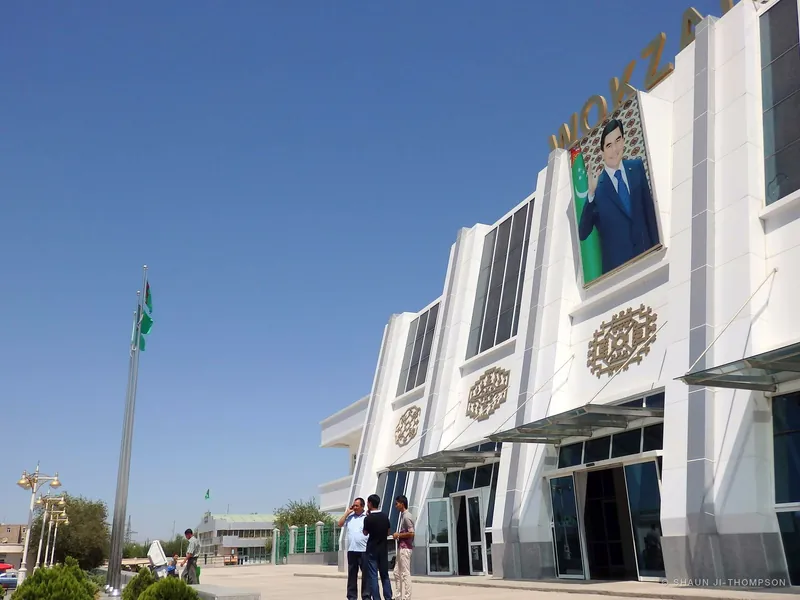
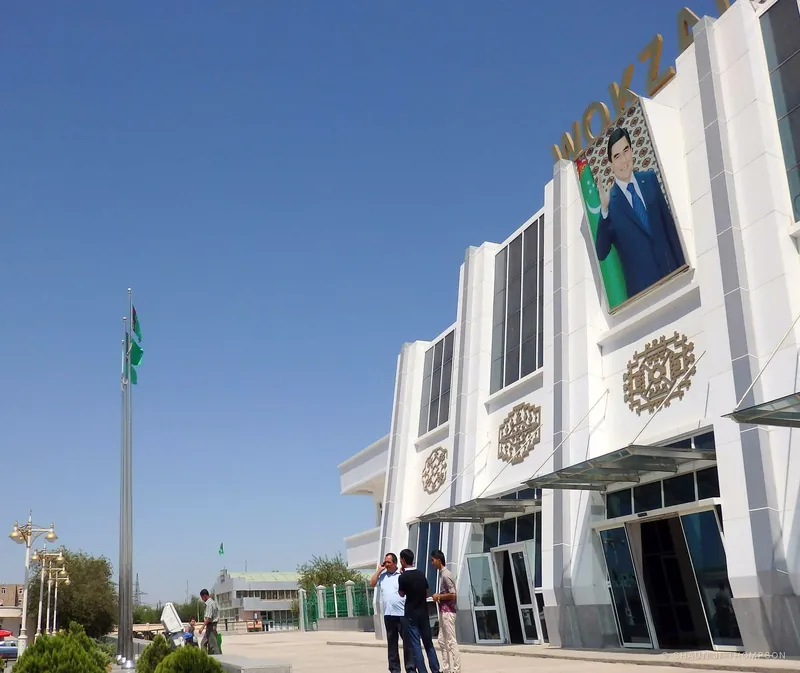
Turkmenistan: camera dates, Before = Khiva, straightened cover and station
Dates straight from the camera file names (31 Jul Dashoguz, 1 Aug Ashgabat). Khiva on the map and as Before.
Cover (P8013523) and Wokzal (P7313450) corrected so verticals stand upright; border redrawn south of Khiva.

Claude-Session: https://claude.ai/code/session_011W9MUxAVE2ZahwufxC2aUf

diff --git a/turkmenistan-2015.html b/turkmenistan-2015.html
@@ -61,17 +61,17 @@
 <section class="wrap route" id="route" aria-labelledby="route-h">
   <div class="sec-head"><h2 id="route-h">The route</h2><span class="mono" aria-hidden="true">Tap a stop to jump to it</span></div>
   <div class="map-card reveal">
-    <p class="sr-only" id="map-desc">Dot map of Turkmenistan and its neighbours, with Turkmenistan's land borders. Ashgabat is marked as the capital. A faint line comes in from Uzbekistan to Dashoguz; the route runs south across the Karakum Desert to Ashgabat, and a faint line continues over the Kopet Dag to Mashhad in Iran.</p>
+    <p class="sr-only" id="map-desc">Dot map of Turkmenistan and its neighbours, with Turkmenistan's land borders. Ashgabat is marked as the capital. A faint line comes in from Khiva in Uzbekistan to Dashoguz; the route runs south across the Karakum Desert to Ashgabat, and a faint line continues over the Kopet Dag to Mashhad in Iran.</p>
     <div class="map" role="group" aria-label="Route map" aria-describedby="map-desc">
       <div class="stage">
       <img src="assets/turkmenistan-map.png" alt="" width="1600" height="1085">
       <svg aria-hidden="true" viewBox="0 0 100 100" preserveAspectRatio="none">
-        <defs><clipPath id="home-land" clipPathUnits="userSpaceOnUse"><polygon points="11.43,23.91 20.57,18.48 28.00,20.11 34.29,26.96 40.29,27.72 45.14,19.57 48.57,13.59 52.57,12.50 56.00,16.30 58.86,19.57 60.00,22.28 63.43,28.26 68.00,29.35 70.86,36.96 75.43,43.48 80.57,47.83 83.43,53.26 89.14,60.33 94.86,63.59 94.57,70.11 89.71,67.93 85.71,71.20 82.86,78.26 80.57,84.78 74.86,86.41 70.29,94.02 64.57,89.13 63.71,78.80 59.14,77.72 53.14,68.48 48.00,66.30 41.71,61.96 36.57,60.87 30.86,63.04 27.43,69.02 22.00,70.65 22.86,46.74 17.14,30.43"/></clipPath></defs>
+        <defs><clipPath id="home-land" clipPathUnits="userSpaceOnUse"><polygon points="11.43,23.91 20.57,18.48 28.00,20.11 34.29,26.96 40.29,27.72 45.14,19.57 48.57,13.59 52.57,12.50 56.00,16.30 58.86,19.57 58.00,22.83 57.14,25.54 57.71,28.26 62.29,29.13 65.14,27.72 68.00,29.35 70.86,36.96 75.43,43.48 80.57,47.83 83.43,53.26 89.14,60.33 94.86,63.59 94.57,70.11 89.71,67.93 85.71,71.20 82.86,78.26 80.57,84.78 74.86,86.41 70.29,94.02 64.57,89.13 63.71,78.80 59.14,77.72 53.14,68.48 48.00,66.30 41.71,61.96 36.57,60.87 30.86,63.04 27.43,69.02 22.00,70.65 22.86,46.74 17.14,30.43"/></clipPath></defs>
         <image class="home-land" href="assets/turkmenistan-map.png" x="0" y="0" width="100" height="100" preserveAspectRatio="none" clip-path="url(#home-land)"/>
         <g fill="none" stroke-linejoin="round" stroke-linecap="round">
-          <path id="borders" d="M11.43 23.91 L20.57 18.48 L28.00 20.11 L34.29 26.96 L40.29 27.72 L45.14 19.57 L48.57 13.59 L52.57 12.50 L56.00 16.30 L58.86 19.57 L60.00 22.28 L63.43 28.26 L68.00 29.35 L70.86 36.96 L75.43 43.48 L80.57 47.83 L83.43 53.26 L89.14 60.33 L94.86 63.59 L94.57 70.11 L89.71 67.93 L85.71 71.20 L82.86 78.26 L80.57 84.78 L74.86 86.41 L70.29 94.02 L64.57 89.13 L63.71 78.80 L59.14 77.72 L53.14 68.48 L48.00 66.30 L41.71 61.96 L36.57 60.87 L30.86 63.04 L27.43 69.02 L22.00 70.65"/>
+          <path id="borders" d="M11.43 23.91 L20.57 18.48 L28.00 20.11 L34.29 26.96 L40.29 27.72 L45.14 19.57 L48.57 13.59 L52.57 12.50 L56.00 16.30 L58.86 19.57 L58.00 22.83 L57.14 25.54 L57.71 28.26 L62.29 29.13 L65.14 27.72 L68.00 29.35 L70.86 36.96 L75.43 43.48 L80.57 47.83 L83.43 53.26 L89.14 60.33 L94.86 63.59 L94.57 70.11 L89.71 67.93 L85.71 71.20 L82.86 78.26 L80.57 84.78 L74.86 86.41 L70.29 94.02 L64.57 89.13 L63.71 78.80 L59.14 77.72 L53.14 68.48 L48.00 66.30 L41.71 61.96 L36.57 60.87 L30.86 63.04 L27.43 69.02 L22.00 70.65"/>
           <use href="#borders" stroke="#6A7078" stroke-width="1.2" stroke-dasharray="2 4" vector-effect="non-scaling-stroke"/>
-          <path d="M59.71 22.61 L56.97 21.30 M47.89 63.59 L48.11 67.39 L48.57 72.83 L54.86 81.52" stroke="#E8674A" stroke-opacity="0.45" stroke-width="2" stroke-dasharray="1 5" vector-effect="non-scaling-stroke"/>
+          <path d="M59.20 26.30 L58.29 23.37 L56.97 21.30 M47.89 63.59 L48.11 67.39 L48.57 72.83 L54.86 81.52" stroke="#E8674A" stroke-opacity="0.45" stroke-width="2" stroke-dasharray="1 5" vector-effect="non-scaling-stroke"/>
           <path id="route-line" class="march" d="M56.97 21.30 L54.29 28.26 L48.17 39.35 L48.40 53.80 L47.89 63.59" stroke="#E8674A" stroke-width="2.5" stroke-dasharray="10 7" vector-effect="non-scaling-stroke"/>
         </g>
       </svg>
@@ -84,6 +84,7 @@
       <a class="dot stopdot" href="#stop-dashoguz" data-stop="dashoguz" aria-label="Dashoguz: go to this stop" style="left:56.97%;top:21.30%"></a><span aria-hidden="true" class="lbl city left" style="left:56.97%;top:21.30%">Dashoguz</span>
       <a class="dot stopdot capital" href="#stop-ashgabat" data-stop="ashgabat" aria-label="Ashgabat, the capital: go to this stop" style="left:47.89%;top:63.59%"></a><span aria-hidden="true" class="lbl city cap" style="left:47.89%;top:63.59%">Ashgabat<span class="k">Capital</span></span>
       <span class="dot ctx" style="left:54.86%;top:81.52%"></span><span aria-hidden="true" class="lbl city ctx" style="left:54.86%;top:81.52%">Mashhad</span>
+      <span class="dot ctx" style="left:59.20%;top:26.30%"></span><span aria-hidden="true" class="lbl city ctx" style="left:59.20%;top:26.30%">Khiva</span>
       </div>
     </div>
   </div>
@@ -93,15 +94,15 @@
      Stops are sorted by date. 1 photo = feature / offset / inset (rotating), 2 = pair, 3+ = lead photo then pair or carousel. Stops without photos stay hidden. -->
 <div id="diary">
 <!-- diary:start -->
-<section class="plate wrap lead" id="stop-dashoguz" data-stop="dashoguz" data-name="Dashoguz" data-native="Daşoguz"><header class="plate-head"><span class="num">01</span><div class="place"><h2>Dashoguz</h2><a class="to-map mono" href="#route" data-stop="dashoguz">Map ↑</a></div><span class="native" lang="tk">Daşoguz</span><span class="meta mono"><span>Turkmenistan</span><span>30–31 July 2015</span></span></header><div class="photos lead-photo reveal"><img src="assets/dashoguz-01.jpg" alt="A gilded statue on a pedestal in front of a white colonnade and a tall flagpole, a child pushing a pram across the square" width="2000" height="1500" srcset="assets/sized/dashoguz-01-800.webp 800w, assets/sized/dashoguz-01-1400.webp 1400w, assets/dashoguz-01.jpg 2000w" sizes="100vw"></div><p class="line"><span>Dashoguz, the first town over the border from Uzbekistan. From here the road runs south across the Karakum Desert to Ashgabat.</span></p><div class="rest"><div class="carousel reveal"><div class="track" tabindex="0" role="group" aria-label="Dashoguz photos, scroll sideways"><figure><img src="assets/dashoguz-02.jpg" alt="A tree-lined avenue with lit street lamps leading to a gold monument and a domed white building" width="1500" height="2000" srcset="assets/sized/dashoguz-02-800.webp 800w, assets/sized/dashoguz-02-1400.webp 1400w, assets/dashoguz-02.jpg 1500w" sizes="100vw" loading="lazy" decoding="async"></figure><figure><img src="assets/dashoguz-03.jpg" alt="A large white building outlined in gold lights, its centre shaped like an open book, a car and a cyclist on the road in front" width="2000" height="1500" srcset="assets/sized/dashoguz-03-800.webp 800w, assets/sized/dashoguz-03-1400.webp 1400w, assets/dashoguz-03.jpg 2000w" sizes="100vw" loading="lazy" decoding="async"></figure><figure><img src="assets/dashoguz-04.jpg" alt="A waiting room with metal bench seats and a row of computers along the wall, people seated with their backs to the camera" width="1500" height="2000" srcset="assets/sized/dashoguz-04-800.webp 800w, assets/sized/dashoguz-04-1400.webp 1400w, assets/dashoguz-04.jpg 1500w" sizes="100vw" loading="lazy" decoding="async"></figure><figure><img src="assets/dashoguz-05.jpg" alt="The white railway station in Dashoguz, a portrait of President Berdimuhamedow above the entrance under the gold letters of &#x27;Wokzal&#x27;" width="2000" height="1500" srcset="assets/sized/dashoguz-05-800.webp 800w, assets/sized/dashoguz-05-1400.webp 1400w, assets/dashoguz-05.jpg 2000w" sizes="100vw" loading="lazy" decoding="async"></figure><figure><img src="assets/dashoguz-06.jpg" alt="A police officer and another man beside a blue roadside building in the desert, seen through a car windscreen" width="1125" height="2000" srcset="assets/sized/dashoguz-06-800.webp 800w, assets/dashoguz-06.jpg 1125w" sizes="100vw" loading="lazy" decoding="async"></figure><figure><img src="assets/dashoguz-07.jpg" alt="A corrugated-iron shelter on bare ground in the Karakum Desert, scrub and low dunes behind" width="2000" height="1125" srcset="assets/sized/dashoguz-07-800.webp 800w, assets/sized/dashoguz-07-1400.webp 1400w, assets/dashoguz-07.jpg 2000w" sizes="100vw" loading="lazy" decoding="async"></figure></div><div class="c-ctrl" hidden><span class="mono count">1 / 6</span><span class="c-btns"><button type="button" class="prev" aria-label="Previous photo">←</button><button type="button" class="next" aria-label="Next photo">→</button></span></div></div></div></section>
-<section class="plate wrap lead" id="stop-ashgabat" data-stop="ashgabat" data-name="Ashgabat" data-native="Aşgabat"><header class="plate-head"><span class="num">02</span><div class="place"><h2>Ashgabat</h2><a class="to-map mono" href="#route" data-stop="ashgabat">Map ↑</a></div><span class="native" lang="tk">Aşgabat</span><span class="meta mono"><span>Turkmenistan</span><span>31 July 2015 – 1 August 2015</span></span></header><div class="photos lead-photo reveal"><img src="assets/ashgabat-04.jpg" alt="A bazaar stall of dried herbs, flowers and berries in wooden trays, handwritten labels in Russian and Turkmen, the seller behind" width="2000" height="1125" srcset="assets/sized/ashgabat-04-800.webp 800w, assets/sized/ashgabat-04-1400.webp 1400w, assets/ashgabat-04.jpg 2000w" sizes="100vw" loading="lazy" decoding="async"></div><p class="line"><span>Ashgabat, the capital, under the Kopet Dag. The herbs in the bazaar are labelled in Russian and Turkmen. Then south over the mountains to Mashhad.</span></p><div class="rest"><div class="carousel reveal"><div class="track" tabindex="0" role="group" aria-label="Ashgabat photos, scroll sideways"><figure><img src="assets/ashgabat-01.jpg" alt="Traffic on a wide avenue in Ashgabat, white apartment blocks and the Kopet Dag mountains ahead, seen from a car" width="1500" height="2000" srcset="assets/sized/ashgabat-01-800.webp 800w, assets/sized/ashgabat-01-1400.webp 1400w, assets/ashgabat-01.jpg 1500w" sizes="100vw" loading="lazy" decoding="async"></figure><figure><img src="assets/ashgabat-02.jpg" alt="Turkmen newspapers on a glass table, each front page with a photograph of President Berdimuhamedow, beside a tourism magazine" width="2000" height="1500" srcset="assets/sized/ashgabat-02-800.webp 800w, assets/sized/ashgabat-02-1400.webp 1400w, assets/ashgabat-02.jpg 2000w" sizes="100vw" loading="lazy" decoding="async"></figure><figure><img src="assets/ashgabat-03.jpg" alt="A supermarket aisle in Ashgabat, staff restocking an open fridge of butter and cheese, a red crate in the middle" width="2000" height="1500" srcset="assets/sized/ashgabat-03-800.webp 800w, assets/sized/ashgabat-03-1400.webp 1400w, assets/ashgabat-03.jpg 2000w" sizes="100vw" loading="lazy" decoding="async"></figure></div><div class="c-ctrl" hidden><span class="mono count">1 / 3</span><span class="c-btns"><button type="button" class="prev" aria-label="Previous photo">←</button><button type="button" class="next" aria-label="Next photo">→</button></span></div></div></div></section>
+<section class="plate wrap lead" id="stop-dashoguz" data-stop="dashoguz" data-name="Dashoguz" data-native="Daşoguz"><header class="plate-head"><span class="num">01</span><div class="place"><h2>Dashoguz</h2><a class="to-map mono" href="#route" data-stop="dashoguz">Map ↑</a></div><span class="native" lang="tk">Daşoguz</span><span class="meta mono"><span>Turkmenistan</span><span>31 July 2015</span></span></header><div class="photos lead-photo reveal"><img src="assets/dashoguz-01.jpg" alt="A gilded statue on a pedestal in front of a white colonnade and a tall flagpole, a child pushing a pram across the square" width="2000" height="1500" srcset="assets/sized/dashoguz-01-800.webp 800w, assets/sized/dashoguz-01-1400.webp 1400w, assets/dashoguz-01.jpg 2000w" sizes="100vw"></div><p class="line"><span>Dashoguz, the first town over the border from Uzbekistan. From here the road runs south across the Karakum Desert to Ashgabat.</span></p><div class="rest"><div class="carousel reveal"><div class="track" tabindex="0" role="group" aria-label="Dashoguz photos, scroll sideways"><figure><img src="assets/dashoguz-02.jpg" alt="A tree-lined avenue with lit street lamps leading to a gold monument and a domed white building" width="1500" height="2000" srcset="assets/sized/dashoguz-02-800.webp 800w, assets/sized/dashoguz-02-1400.webp 1400w, assets/dashoguz-02.jpg 1500w" sizes="100vw" loading="lazy" decoding="async"></figure><figure><img src="assets/dashoguz-03.jpg" alt="A large white building outlined in gold lights, its centre shaped like an open book, a car and a cyclist on the road in front" width="2000" height="1500" srcset="assets/sized/dashoguz-03-800.webp 800w, assets/sized/dashoguz-03-1400.webp 1400w, assets/dashoguz-03.jpg 2000w" sizes="100vw" loading="lazy" decoding="async"></figure><figure><img src="assets/dashoguz-04.jpg" alt="A waiting room with metal bench seats and a row of computers along the wall, people seated with their backs to the camera" width="1500" height="2000" srcset="assets/sized/dashoguz-04-800.webp 800w, assets/sized/dashoguz-04-1400.webp 1400w, assets/dashoguz-04.jpg 1500w" sizes="100vw" loading="lazy" decoding="async"></figure><figure><img src="assets/dashoguz-05.jpg" alt="The white railway station in Dashoguz, a portrait of President Berdimuhamedow above the entrance under the gold letters of &#x27;Wokzal&#x27;" width="2000" height="1682" srcset="assets/sized/dashoguz-05-800.webp 800w, assets/sized/dashoguz-05-1400.webp 1400w, assets/dashoguz-05.jpg 2000w" sizes="100vw" loading="lazy" decoding="async"></figure><figure><img src="assets/dashoguz-06.jpg" alt="A police officer and another man beside a blue roadside building in the desert, seen through a car windscreen" width="1125" height="2000" srcset="assets/sized/dashoguz-06-800.webp 800w, assets/dashoguz-06.jpg 1125w" sizes="100vw" loading="lazy" decoding="async"></figure><figure><img src="assets/dashoguz-07.jpg" alt="A corrugated-iron shelter on bare ground in the Karakum Desert, scrub and low dunes behind" width="2000" height="1125" srcset="assets/sized/dashoguz-07-800.webp 800w, assets/sized/dashoguz-07-1400.webp 1400w, assets/dashoguz-07.jpg 2000w" sizes="100vw" loading="lazy" decoding="async"></figure></div><div class="c-ctrl" hidden><span class="mono count">1 / 6</span><span class="c-btns"><button type="button" class="prev" aria-label="Previous photo">←</button><button type="button" class="next" aria-label="Next photo">→</button></span></div></div></div></section>
+<section class="plate wrap lead" id="stop-ashgabat" data-stop="ashgabat" data-name="Ashgabat" data-native="Aşgabat"><header class="plate-head"><span class="num">02</span><div class="place"><h2>Ashgabat</h2><a class="to-map mono" href="#route" data-stop="ashgabat">Map ↑</a></div><span class="native" lang="tk">Aşgabat</span><span class="meta mono"><span>Turkmenistan</span><span>1 August 2015</span></span></header><div class="photos lead-photo reveal"><img src="assets/ashgabat-04.jpg" alt="A bazaar stall of dried herbs, flowers and berries in wooden trays, handwritten labels in Russian and Turkmen, the seller behind" width="2000" height="1125" srcset="assets/sized/ashgabat-04-800.webp 800w, assets/sized/ashgabat-04-1400.webp 1400w, assets/ashgabat-04.jpg 2000w" sizes="100vw" loading="lazy" decoding="async"></div><p class="line"><span>Ashgabat, the capital, under the Kopet Dag. The herbs in the bazaar are labelled in Russian and Turkmen. From here, south over the mountains to Mashhad.</span></p><div class="rest"><div class="carousel reveal"><div class="track" tabindex="0" role="group" aria-label="Ashgabat photos, scroll sideways"><figure><img src="assets/ashgabat-01.jpg" alt="Traffic on a wide avenue in Ashgabat, white apartment blocks and the Kopet Dag mountains ahead, seen from a car" width="1500" height="2000" srcset="assets/sized/ashgabat-01-800.webp 800w, assets/sized/ashgabat-01-1400.webp 1400w, assets/ashgabat-01.jpg 1500w" sizes="100vw" loading="lazy" decoding="async"></figure><figure><img src="assets/ashgabat-02.jpg" alt="Turkmen newspapers on a glass table, each front page with a photograph of President Berdimuhamedow, beside a tourism magazine" width="2000" height="1500" srcset="assets/sized/ashgabat-02-800.webp 800w, assets/sized/ashgabat-02-1400.webp 1400w, assets/ashgabat-02.jpg 2000w" sizes="100vw" loading="lazy" decoding="async"></figure><figure><img src="assets/ashgabat-03.jpg" alt="A supermarket aisle in Ashgabat, staff restocking an open fridge of butter and cheese, a red crate in the middle" width="2000" height="1500" srcset="assets/sized/ashgabat-03-800.webp 800w, assets/sized/ashgabat-03-1400.webp 1400w, assets/ashgabat-03.jpg 2000w" sizes="100vw" loading="lazy" decoding="async"></figure></div><div class="c-ctrl" hidden><span class="mono count">1 / 3</span><span class="c-btns"><button type="button" class="prev" aria-label="Previous photo">←</button><button type="button" class="next" aria-label="Next photo">→</button></span></div></div></div></section>
 <!-- diary:end -->
 </div>
 
 
 
 <nav class="wrap leg" aria-label="The rest of the leg">
-  <div id="before"></div>
+  <div id="before"><span class="mono">Before · Uzbekistan</span><span class="serif">Khiva <span class="soon">· coming soon</span></span></div>
   <div id="after"><span class="mono">After · Iran</span><a class="serif" href="iran-2015.html">Mashhad →</a></div>
 </nav>
 
